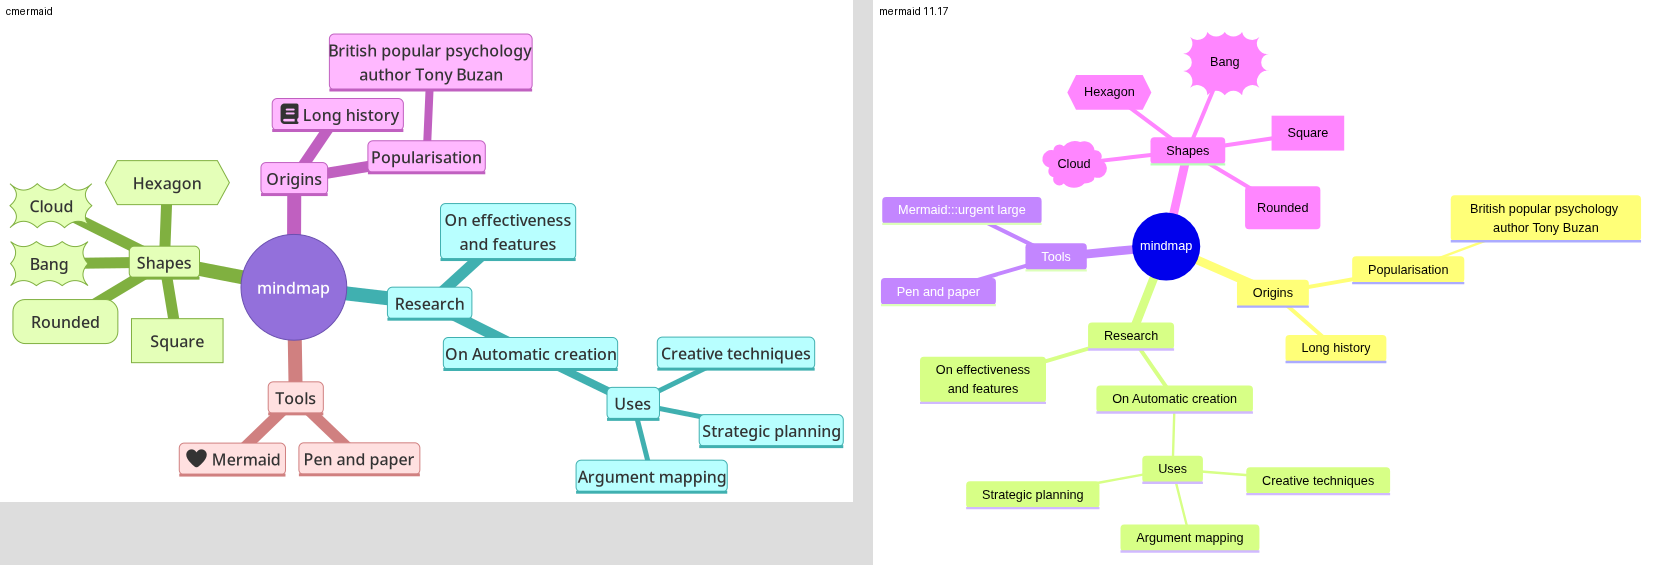
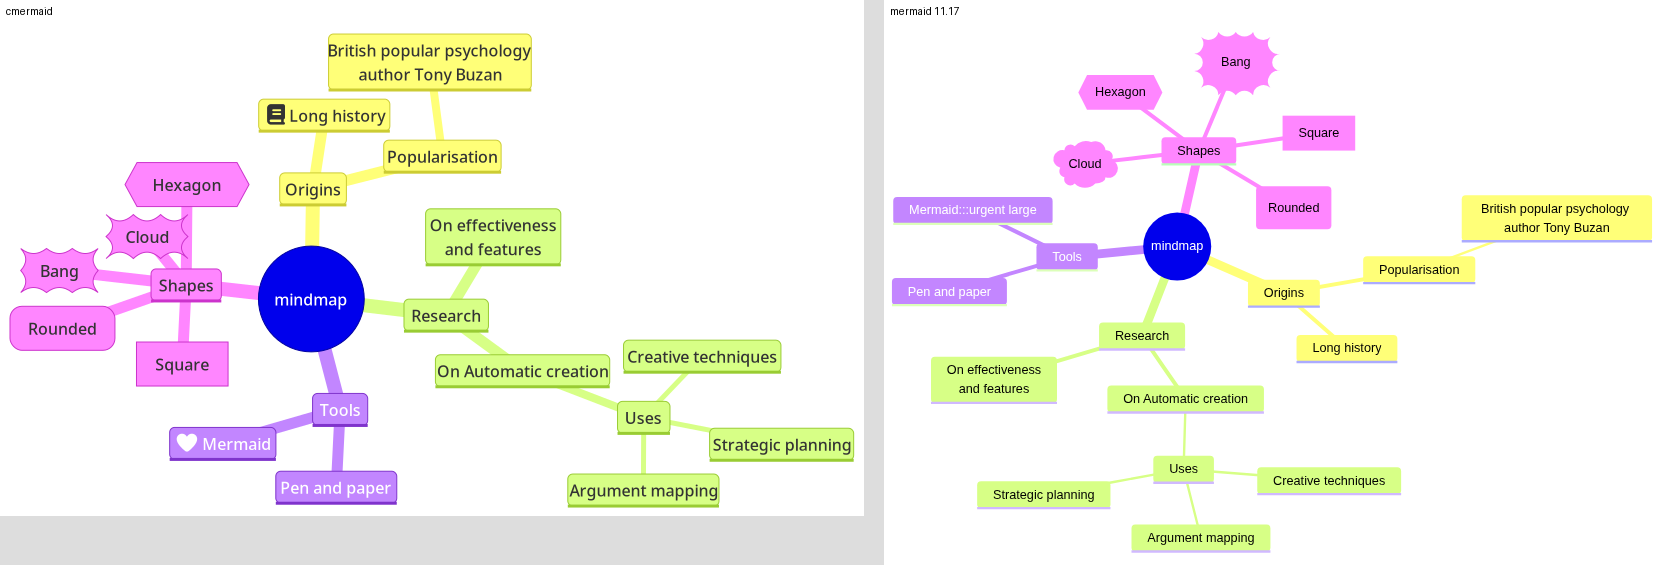
mindmap: sweep-and-prune relaxation with radial seed + early stop (~28us), fix uninitialised leaf counts on arena reuse, mermaid cScale section colours

diff --git a/src/d_mindmap.c b/src/d_mindmap.c
@@ -24,10 +24,12 @@ typedef struct MNode {
 
 static constexpr char CSS[] = "#mermaid .mt{font-size:16px;}#mermaid .me{fill:none;}"
                               "#mermaid .ic{fill:#fff;stroke:#333;stroke-width:1px;}#mermaid .ict{font-size:11px;font-weight:bold;fill:#333;}";
-static const char *const SEC[] = {"#ffb8ff", "#b8ffff", "#ffe0e0", "#e4ffb8", "#ffffab", "#b8b8ff",
-                                  "#ff85ff", "#85ffff", "#ffb8b8", "#f5ffe0", "#ffffde"};
-static const char *const SECS[] = {"#c060c0", "#40b0b0", "#d08080", "#80b040", "#c0c040", "#6060d0",
-                                   "#d040d0", "#30c0c0", "#d06060", "#90b060", "#c0c070"};
+/* mermaid 11 default cScale (section k uses cScale[k+1]; root is the darker primary), darker strokes for borders */
+static const char *const SEC[] = {"#ffff78", "#d7ff86", "#c286ff", "#ff86ff", "#ff86c2", "#ff8686",
+                                  "#ffc286", "#c2ff86", "#86ffc2", "#86ffff", "#86c2ff"};
+static const char *const SECS[] = {"#cccc33", "#99cc33", "#7f33cc", "#cc33cc", "#cc3380", "#cc3333",
+                                   "#cc8033", "#80cc33", "#33cc80", "#33cccc", "#337fcc"};
+static const bool SECW[] = {false, false, true, false, false, false, false, false, false, false, false}; /* white text */
 
 static bool parse_node(Str s, Str *label, uint8_t *shape) {
     static const struct { const char *o, *c; uint8_t sh; } SH[] = {
@@ -66,6 +68,104 @@ static void place(MNode *v, uint32_t i, double x, double ytop, int dir) {
         place(v, c, nx, y, dir);
         y += v[c].sub;
     }
+}
+
+/* Sweep-and-prune broad phase: node indices kept sorted by left edge (insertion sort, nearly sorted between
+ * iterations so ~O(n)); a pair is only tested while the next left edge is within reach of the current right edge. */
+static void sap_sort(size_t n, const MNode V[static n], uint32_t ord[static n]) {
+    for (size_t i = 1; i < n; i++) {
+        uint32_t k = ord[i];
+        double key = V[k].x - V[k].w / 2;
+        size_t j = i;
+        while (j > 0 && V[ord[j - 1]].x - V[ord[j - 1]].w / 2 > key) { ord[j] = ord[j - 1]; j--; }
+        ord[j] = k;
+    }
+}
+/* overlap push between i<j (with margin), accumulated into f; the radial seed already fans branches out */
+static void mm_pair(const MNode V[], size_t i, size_t j, double margin, double fx[], double fy[]) {
+    double dx = V[j].x - V[i].x, dy = V[j].y - V[i].y;
+    double ox = (V[i].w + V[j].w) / 2 + margin - fabs(dx), oy = (V[i].h + V[j].h) / 2 + margin - fabs(dy);
+    if (ox > 0 && oy > 0) { /* overlapping (with margin): push along the cheaper axis */
+        if (ox < oy) { double sx = dx >= 0 ? 1 : -1; fx[j] += sx * ox * 0.5, fx[i] -= sx * ox * 0.5; }
+        else { double sy = dy >= 0 ? 1 : -1; fy[j] += sy * oy * 0.5, fy[i] -= sy * oy * 0.5; }
+    }
+}
+/* compaction (mermaid's cose-bilkent result is much tighter than a pure radial layout): springs pull each node
+ * toward a short rest length from its parent, grid-local box-overlap repulsion keeps everything apart. Root fixed.
+ * Stops early once the largest move per step is tiny. */
+[[nodiscard]] static bool mm_relax(Arena *a, size_t n, MNode V[static n]) {
+    if (n < 2) return true;
+    double *fx = ANEW(a, double, n), *fy = ANEW(a, double, n);
+    uint32_t *ord = ANEW(a, uint32_t, n);
+    if (!fx || !fy || !ord) return false;
+    for (size_t i = 0; i < n; i++) ord[i] = (uint32_t)i;
+    /* seed: pull every node in along its radial direction to the spring rest length from its parent
+     * (parents precede children), so the relaxation only has to fix local overlaps */
+    for (size_t i = 1; i < n; i++) {
+        uint32_t p = V[i].parent;
+        double dx = V[i].x - V[p].x, dy = V[i].y - V[p].y, d = fmax(1e-6, sqrt(dx * dx + dy * dy));
+        double ux = fabs(dx) / d, uy = fabs(dy) / d;
+        double ext = fmin(ux > 1e-6 ? (V[i].w + V[p].w) / 2 / ux : HUGE_VAL, uy > 1e-6 ? (V[i].h + V[p].h) / 2 / uy : HUGE_VAL);
+        double k = (ext + 40) / d;
+        if (k < 1) {
+            /* move the whole subtree: children are later in the array, shift them by the same delta */
+            double sx = dx * (k - 1), sy = dy * (k - 1);
+            V[i].x += sx, V[i].y += sy;
+            for (size_t c = i + 1; c < n; c++) {
+                uint32_t q = V[c].parent;
+                while (q != 0 && q != i) q = V[q].parent;
+                if (q == i) V[c].x += sx, V[c].y += sy;
+            }
+        }
+    }
+    for (int it = 0; it < 30; it++) {
+        double step = 0.5 * (1 - it / 40.0);
+        for (size_t i = 0; i < n; i++) fx[i] = fy[i] = 0;
+        for (size_t i = 1; i < n; i++) {
+            uint32_t p = V[i].parent;
+            double dx = V[i].x - V[p].x, dy = V[i].y - V[p].y, d = fmax(1e-6, sqrt(dx * dx + dy * dy));
+            double ux = fabs(dx) / d, uy = fabs(dy) / d; /* rest: boxes just clear along the edge, plus a link */
+            double ext = fmin(ux > 1e-6 ? (V[i].w + V[p].w) / 2 / ux : HUGE_VAL, uy > 1e-6 ? (V[i].h + V[p].h) / 2 / uy : HUGE_VAL);
+            double f = (d - (ext + 40)) * 0.3;
+            fx[i] -= f * dx / d, fy[i] -= f * dy / d;
+            fx[p] += f * dx / d * 0.5, fy[p] += f * dy / d * 0.5;
+        }
+        sap_sort(n, V, ord);
+        for (size_t s = 0; s < n; s++) {
+            uint32_t i = ord[s];
+            double xr = V[i].x + V[i].w / 2 + 14;
+            for (size_t t = s + 1; t < n && V[ord[t]].x - V[ord[t]].w / 2 < xr; t++) {
+                uint32_t j = ord[t];
+                if (i < j) mm_pair(V, i, j, 14, fx, fy); else mm_pair(V, j, i, 14, fx, fy);
+            }
+        }
+        double mx = 0;
+        for (size_t i = 1; i < n; i++) {
+            double m = sqrt(fx[i] * fx[i] + fy[i] * fy[i]), k = (m > 40 ? 40 / m : 1) * step * 2;
+            V[i].x += fx[i] * k, V[i].y += fy[i] * k;
+            mx = fmax(mx, m * k);
+        }
+        if (mx < 0.5) break;
+    }
+    for (int it = 0; it < 60; it++) { /* final hard de-overlap */
+        bool any = false;
+        sap_sort(n, V, ord);
+        for (size_t s = 0; s < n; s++)
+            for (size_t t = s + 1; t < n && V[ord[t]].x - V[ord[t]].w / 2 < V[ord[s]].x + V[ord[s]].w / 2 + 8; t++) {
+                    {
+                        uint32_t i = ord[s] < ord[t] ? ord[s] : ord[t], j = ord[s] < ord[t] ? ord[t] : ord[s];
+                        double dx = V[j].x - V[i].x, dy = V[j].y - V[i].y;
+                        double px = (V[i].w + V[j].w) / 2 + 8 - fabs(dx), py = (V[i].h + V[j].h) / 2 + 8 - fabs(dy);
+                        if (px <= 0 || py <= 0) continue;
+                        any = true;
+                        double wi = i ? 0.5 : 0, wj = 1 - wi;
+                        if (px < py) { double sx = dx >= 0 ? 1 : -1; V[j].x += sx * px * wj, V[i].x -= sx * px * wi; }
+                        else { double sy = dy >= 0 ? 1 : -1; V[j].y += sy * py * wj, V[i].y -= sy * py * wi; }
+                    }
+                }
+        if (!any) break;
+    }
+    return true;
 }
 
 DIAG_FN(mindmap_render) {
@@ -150,8 +250,8 @@ DIAG_FN(mindmap_render) {
     if (!tidy) {
         double *leaves = ANEW(a, double, v.n), *ang = ANEW(a, double, v.n), *wedge = ANEW(a, double, v.n);
         if (!leaves || !ang || !wedge) return CMM_ERR_NOMEM;
+        for (size_t i = 0; i < v.n; i++) leaves[i] = V[i].first == UINT32_MAX; /* arena memory is not zeroed */
         for (size_t i = v.n; i-- > 0;) { /* children come after parents */
-            if (V[i].first == UINT32_MAX) leaves[i] = 1;
             if (i) leaves[V[i].parent] += leaves[i];
         }
         ang[0] = 0, wedge[0] = 2 * M_PI;
@@ -181,59 +281,7 @@ DIAG_FN(mindmap_render) {
             rad[i] = r;
         }
         for (size_t i = 1; i < v.n; i++) V[i].x = rad[i] * cos(ang[i]), V[i].y = rad[i] * sin(ang[i]);
-        /* compaction (mermaid's cose-bilkent result is much tighter than a pure radial layout): springs pull each
-         * node toward a short rest length from its parent, box-overlap repulsion keeps everything apart. Root fixed. */
-        if (v.n <= 600) {
-            double *fx = ANEW(a, double, v.n), *fy = ANEW(a, double, v.n);
-            if (!fx || !fy) return CMM_ERR_NOMEM;
-            for (int it = 0; it < 250; it++) {
-                double step = 0.5 * (1 - it / 300.0);
-                for (size_t i = 0; i < v.n; i++) fx[i] = fy[i] = 0;
-                for (size_t i = 1; i < v.n; i++) {
-                    uint32_t p = V[i].parent;
-                    double dx = V[i].x - V[p].x, dy = V[i].y - V[p].y, d = fmax(1e-6, hypot(dx, dy));
-                    /* rest length: boxes just clear each other along the edge direction, plus a short link */
-                    double ux = fabs(dx) / d, uy = fabs(dy) / d;
-                    double ext = fmin(ux > 1e-6 ? (V[i].w + V[p].w) / 2 / ux : HUGE_VAL, uy > 1e-6 ? (V[i].h + V[p].h) / 2 / uy : HUGE_VAL);
-                    double f = (d - (ext + 40)) * 0.3;
-                    fx[i] -= f * dx / d, fy[i] -= f * dy / d;
-                    fx[p] += f * dx / d * 0.5, fy[p] += f * dy / d * 0.5;
-                }
-                for (size_t i = 0; i < v.n; i++)
-                    for (size_t j = i + 1; j < v.n; j++) {
-                        double dx = V[j].x - V[i].x, dy = V[j].y - V[i].y;
-                        double ox = (V[i].w + V[j].w) / 2 + 14 - fabs(dx), oy = (V[i].h + V[j].h) / 2 + 14 - fabs(dy);
-                        if (ox > 0 && oy > 0) { /* overlapping (with margin): push along the cheaper axis */
-                            if (ox < oy) { double sx = dx >= 0 ? 1 : -1; fx[j] += sx * ox * 0.5, fx[i] -= sx * ox * 0.5; }
-                            else { double sy = dy >= 0 ? 1 : -1; fy[j] += sy * oy * 0.5, fy[i] -= sy * oy * 0.5; }
-                        } else { /* weak long-range repulsion keeps branches fanned out */
-                            double d2 = fmax(dx * dx + dy * dy, 100), r = 1500 / d2;
-                            double d = sqrt(d2);
-                            fx[j] += r * dx / d, fy[j] += r * dy / d, fx[i] -= r * dx / d, fy[i] -= r * dy / d;
-                        }
-                    }
-                for (size_t i = 1; i < v.n; i++) {
-                    double m = hypot(fx[i], fy[i]), cap = 40;
-                    double k = m > cap ? cap / m : 1;
-                    V[i].x += fx[i] * k * step * 2, V[i].y += fy[i] * k * step * 2;
-                }
-            }
-            /* final hard de-overlap */
-            for (int it = 0; it < 60; it++) {
-                bool any = false;
-                for (size_t i = 0; i < v.n; i++)
-                    for (size_t j = i + 1; j < v.n; j++) {
-                        double dx = V[j].x - V[i].x, dy = V[j].y - V[i].y;
-                        double ox = (V[i].w + V[j].w) / 2 + 8 - fabs(dx), oy = (V[i].h + V[j].h) / 2 + 8 - fabs(dy);
-                        if (ox <= 0 || oy <= 0) continue;
-                        any = true;
-                        double wi = i ? 0.5 : 0, wj = 1 - wi;
-                        if (ox < oy) { double sx = dx >= 0 ? 1 : -1; V[j].x += sx * ox * wj, V[i].x -= sx * ox * wi; }
-                        else { double sy = dy >= 0 ? 1 : -1; V[j].y += sy * oy * wj, V[i].y -= sy * oy * wi; }
-                    }
-                if (!any) break;
-            }
-        }
+        if (!mm_relax(a, v.n, V)) return CMM_ERR_NOMEM;
     }
     for (int side = -1; side <= 1 && tidy; side += 2) {
         double tot = side > 0 ? hr : hl, y = -tot / 2;
@@ -250,7 +298,7 @@ DIAG_FN(mindmap_render) {
     for (size_t i = 1; i < v.n; i++) { /* edges: cubic from parent side to child side, thinner with depth */
         const MNode *p = &V[V[i].parent], *c = &V[i];
         if (!tidy) {
-            const char *col = SECS[c->sec % countof(SECS)];
+            const char *col = SEC[c->sec % countof(SEC)]; /* mermaid colours edges like their section's nodes */
             buf_lit(out, "<path class=\"me\" stroke=\""); buf_put(out, strlen(col), col);
             buf_lit(out, "\" stroke-width=\""); buf_num(out, fmax(2, 17 - 3.0 * c->depth)); buf_lit(out, "\" d=\"M");
             dg_pt(out, p->x, p->y); buf_ch(out, 'L'); dg_pt(out, c->x, c->y); buf_lit(out, "\"/>");
@@ -267,7 +315,8 @@ DIAG_FN(mindmap_render) {
     }
     for (size_t i = 0; i < v.n; i++) {
         const MNode *m = &V[i];
-        const char *fill = i ? SEC[m->sec % countof(SEC)] : "#9370DB", *st = i ? SECS[m->sec % countof(SECS)] : "#6a4fb0";
+        const char *fill = i ? SEC[m->sec % countof(SEC)] : "#0000ec", *st = i ? SECS[m->sec % countof(SECS)] : "#0000a0";
+        const char *tcls = !i || SECW[m->sec % countof(SECW)] ? "mt\" fill=\"#fff" : "mt";
         double x = m->x - m->w / 2, y = m->y - m->h / 2, w = m->w, h = m->h;
         buf_lit(out, "<g class=\"mindmap-node section-");
         char sn[16];
@@ -321,7 +370,7 @@ DIAG_FN(mindmap_render) {
             for (size_t k = nm.n; k-- > 0;) if (nm.p[k] == ' ' || nm.p[k] == '-' || nm.p[k] == ':') { nm = (Str){.p = nm.p + k + 1, .n = nm.n - k - 1}; break; }
             double cx = x + 18;
             buf_lit(out, "<g class=\"icon\"><title>"); buf_xml(out, m->icon); buf_lit(out, "</title>");
-            if (icon_draw(out, m->icon, cx - 11, m->y - 11, 22, i ? "mt" : "mt\" fill=\"#fff")) {
+            if (icon_draw(out, m->icon, cx - 11, m->y - 11, 22, tcls)) {
                 buf_lit(out, "</g>");
                 tx += 14;
                 goto label;
@@ -334,7 +383,7 @@ DIAG_FN(mindmap_render) {
             tx += 14;
         }
     label:
-        dg_text(out, m->label, 16, tx, m->y, "middle", i ? "mt" : "mt\" fill=\"#fff");
+        dg_text(out, m->label, 16, tx, m->y, "middle", tcls);
     }
     buf_lit(out, "</svg>\n");
     return out->oom ? CMM_ERR_NOMEM : CMM_OK;
